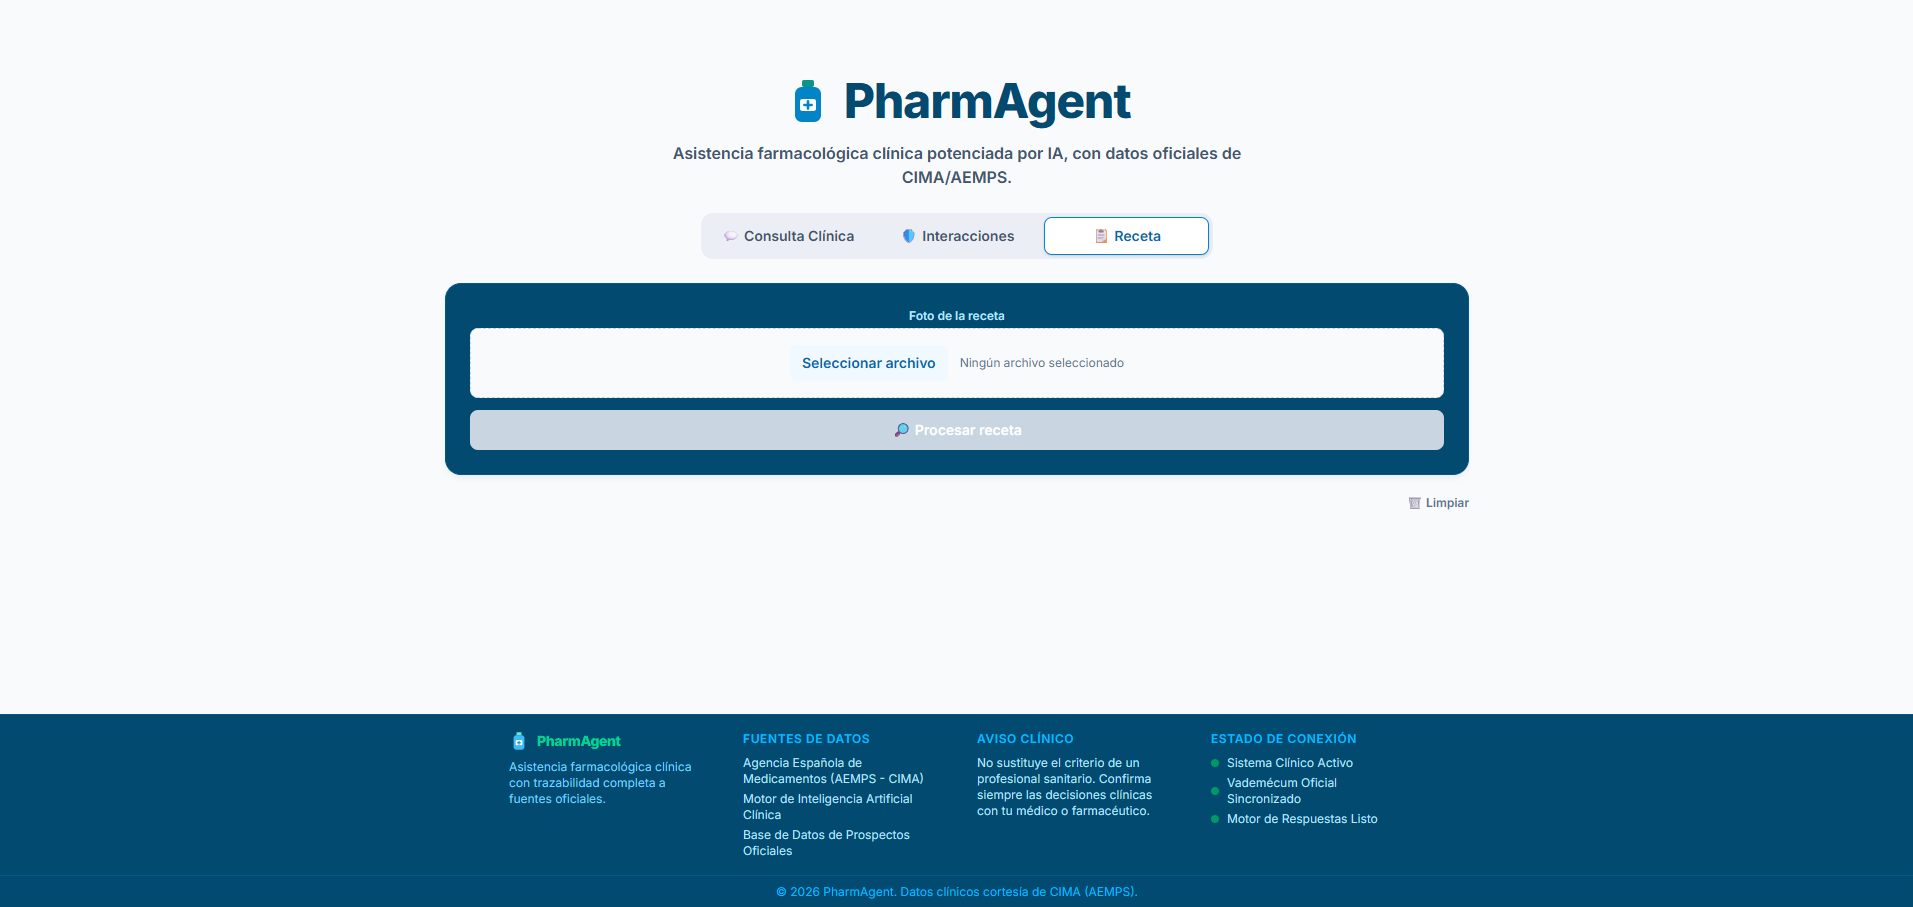
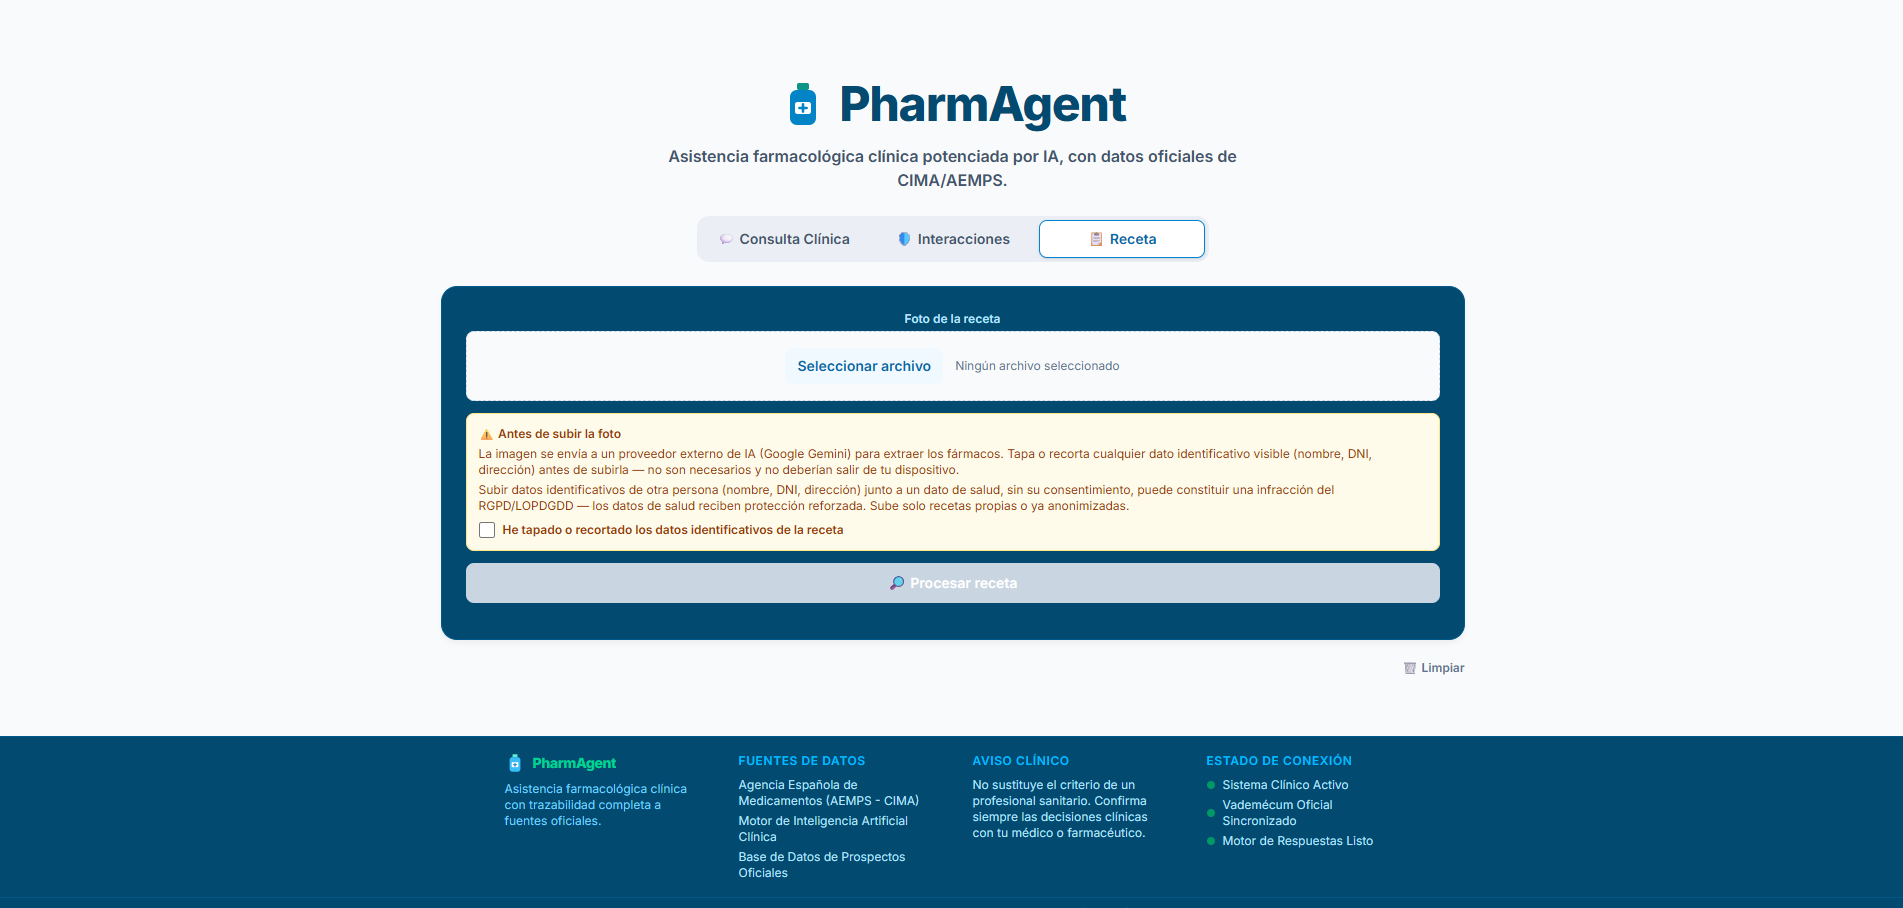
feat: añadir advertencia sobre la subida de datos identificativos y su cumplimiento con el RGPD/LOPDGDD

diff --git a/frontend/index.html b/frontend/index.html
@@ -210,6 +210,12 @@
                     Tapa o recorta cualquier dato identificativo visible (nombre, DNI, dirección) antes de
                     subirla — no son necesarios y no deberían salir de tu dispositivo.
                   </p>
+                  <p class="mt-1">
+                    Subir datos identificativos de otra persona (nombre, DNI, dirección) junto a un dato
+                    de salud, sin su consentimiento, puede constituir una infracción del RGPD/LOPDGDD —
+                    los datos de salud reciben protección reforzada. Sube solo recetas propias o ya
+                    anonimizadas.
+                  </p>
                   <label class="mt-2 flex items-center gap-2 font-semibold">
                     <input
                       id="prescription-consent"
